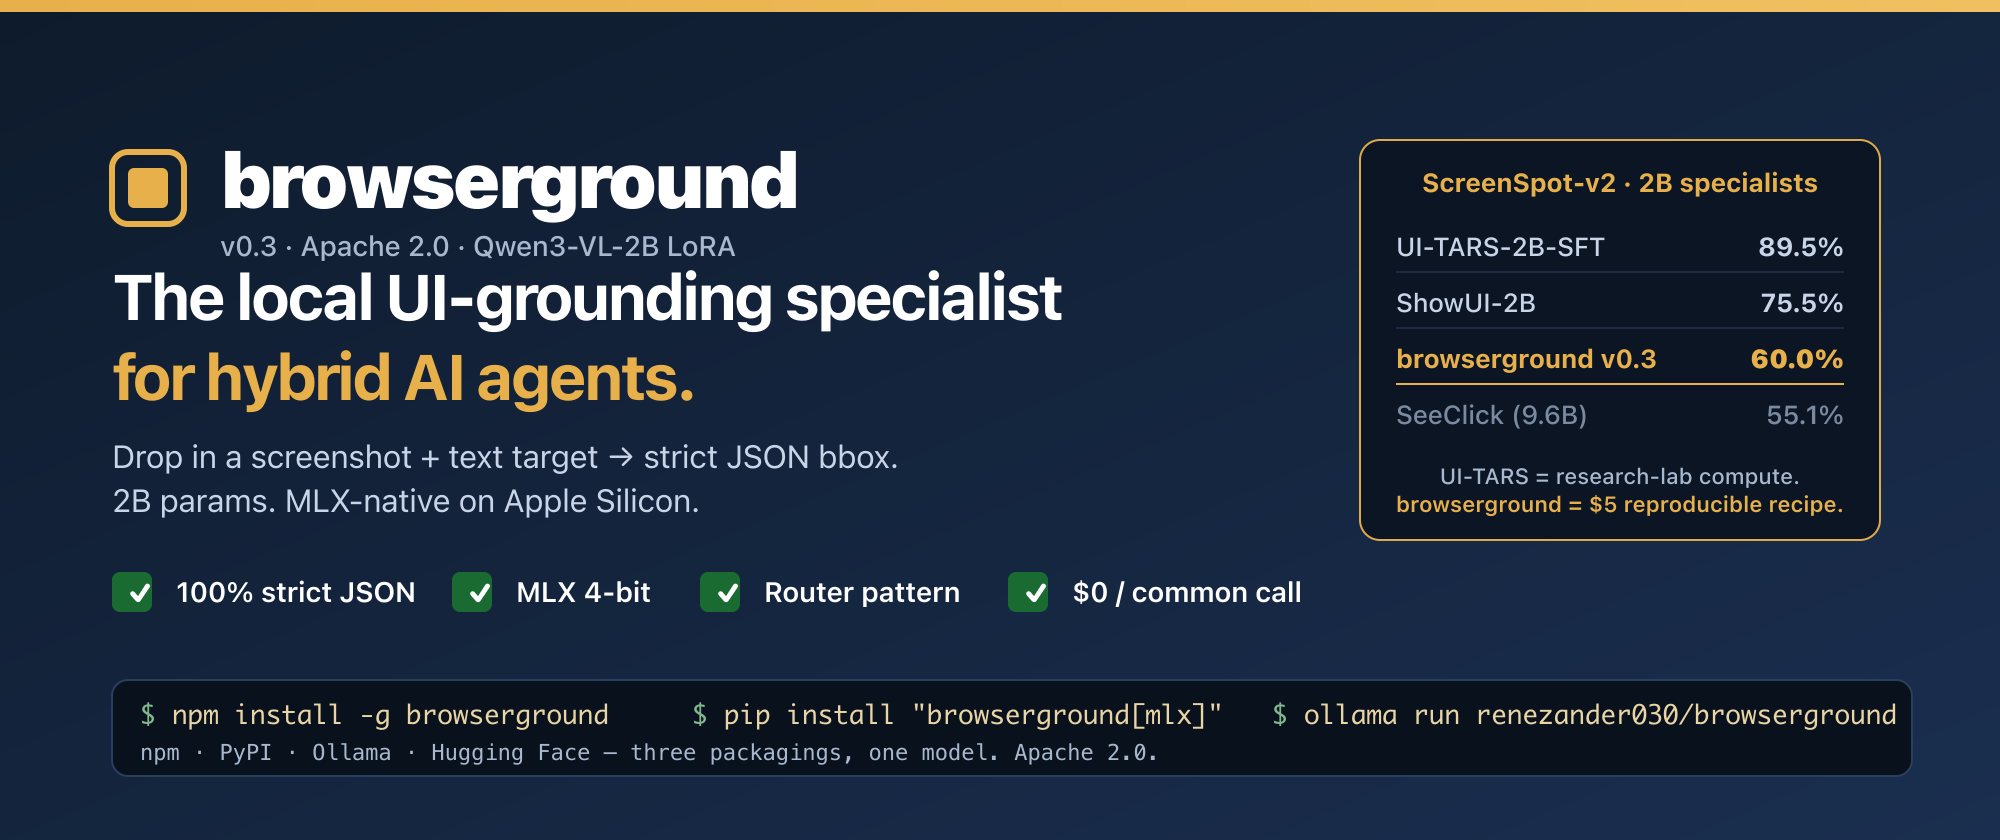
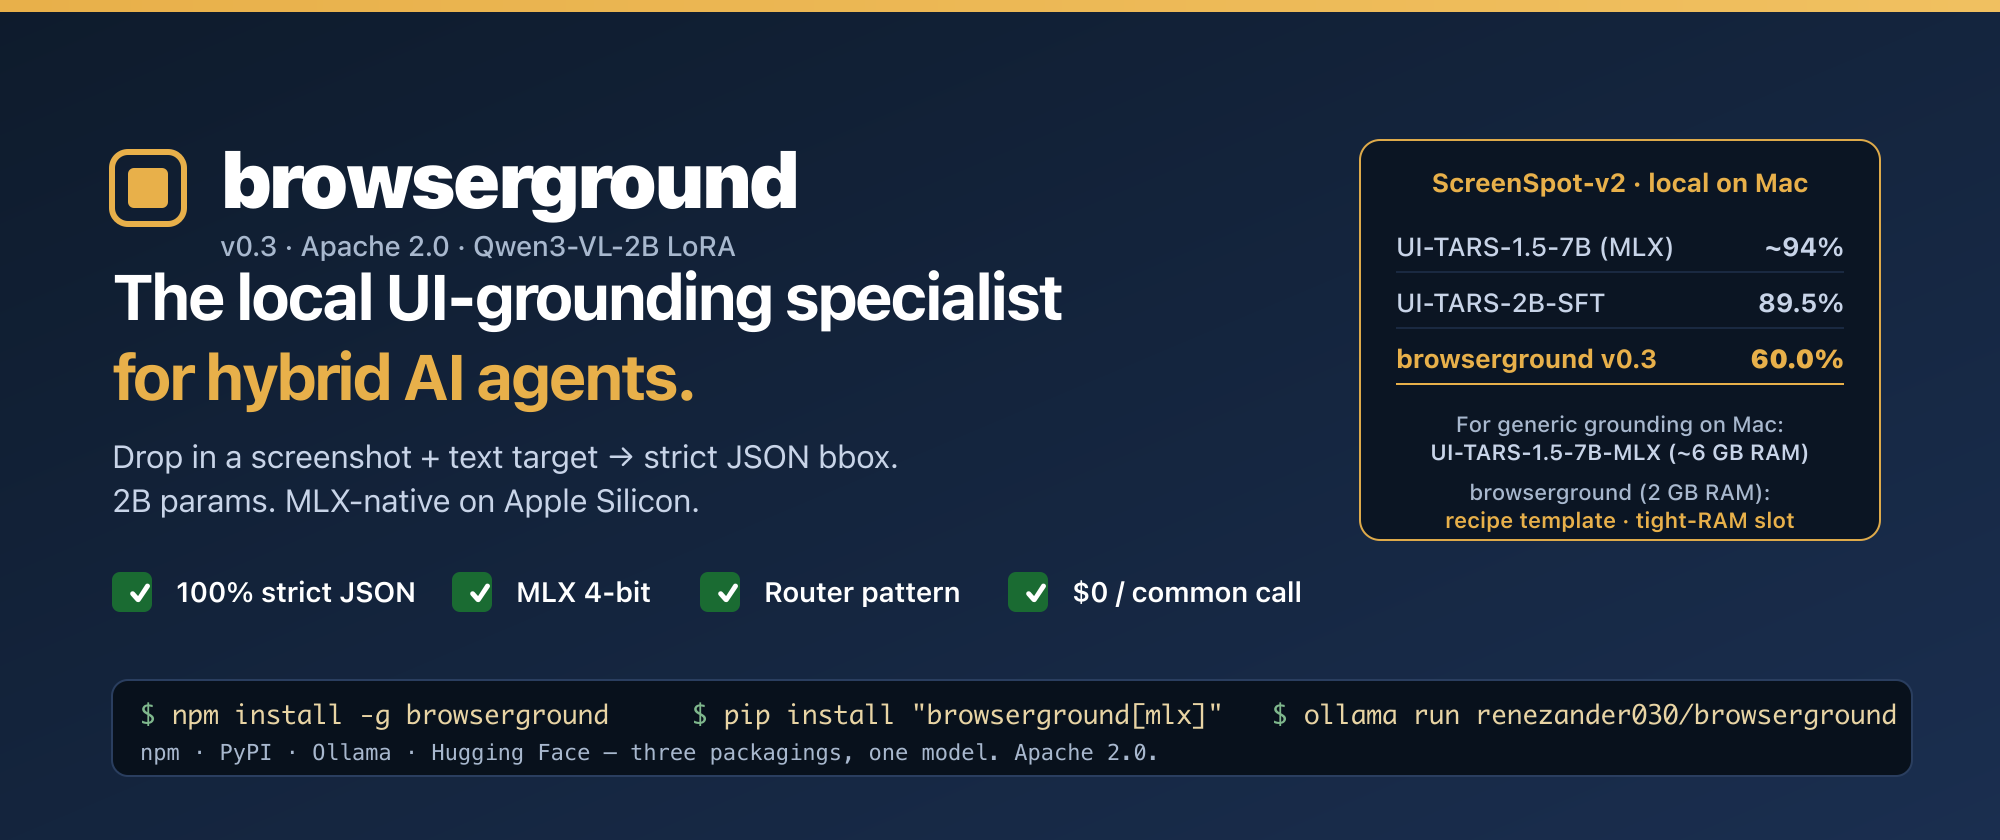
v0.3.1 docs — honest UI-TARS-MLX positioning
mlx-community/UI-TARS-1.5-7B-4bit already exists at ~94% ScreenSpot-v2,
MLX-native, ~6 GB RAM. For generic UI grounding on a ≥16 GB Mac it's the
obvious default — we shouldn't pretend otherwise.

Repositions browserground as two narrower products:
1. The reproducible recipe ($5 L40S + 26k examples + public LoRA) — a template
   anyone can re-run on their own product's screenshots to ship a domain-tuned
   UI grounder. The generic 60% isn't the deliverable; the recipe is.
2. The smallest viable RAM slot (~2 GB at 4-bit MLX vs UI-TARS-7B's ~6 GB) —
   matters on 8 GB Macs and in multi-model hybrid stacks.

Banner: replaces the now-irrelevant UI-TARS-2B-SFT comparison row with
UI-TARS-1.5-7B-MLX ~94% and reframes browserground's tagline as
"recipe template · tight-RAM slot" (not "the right pick for the common case").

Adds explicit "when NOT to pick browserground" and "when to pick browserground"
sections to both GH README and HF model card. Notes that a direct head-to-head
benchmark against UI-TARS-1.5-7B-MLX on Apple Silicon is forthcoming.

diff --git a/README.md b/README.md
@@ -20,47 +20,42 @@
 
 ---
 
-## TL;DR — why browserground, not the other 2B grounding models
+## TL;DR — when to use browserground (and when to use UI-TARS-MLX instead)
 
-You already know the hybrid-AI argument: don't pay frontier-vision rates for "where is the button?" There are three good 2B specialists for that job — UI-TARS, ShowUI, browserground. Here's the case for picking **this** one.
+If you're on Apple Silicon with ≥16 GB RAM and you need **generic, max-accuracy UI grounding**, use **[mlx-community/UI-TARS-1.5-7B-4bit](https://huggingface.co/mlx-community/UI-TARS-1.5-7B-4bit)**. It's the obvious default — ~94% on ScreenSpot-v2, MLX-native, drops into `mlx-vlm` directly. ByteDance research-lab compute, you couldn't reproduce it on a budget.
 
-| | browserground v0.3 | UI-TARS-2B-SFT | ShowUI-2B |
-|---|---|---|---|
-| ScreenSpot-v2 (overall) | 60.0% | **89.5%** | 75.5% |
-| **Output format** | ✅ **strict JSON `{"bbox_2d": [...]}`, 100% parseable** | ❌ coord strings inside prose — needs regex | ❌ varies by prompt |
-| **Apple Silicon native** | ✅ MLX 4-bit, Ollama, GGUF | ❌ server-class | ❌ server-class |
-| **Distribution** | ✅ npm + pip + Ollama + HF, one install per stack | HF only | HF only |
-| **Daemon / HTTP REST** | ✅ `serve --http :8401`, Ollama-shape API | ❌ | ❌ |
-| **Batch + confidence + eval CLIs** | ✅ built-in | ❌ | ❌ |
-| **Adapters** | ✅ `browser-use` Controller + Skyvern `ground_with_fallback` | ❌ DIY | ❌ DIY |
-| Base model | Qwen3-VL-**2025** | Qwen2-VL-2024 | Qwen2-VL-2024 |
-| Training compute | $2.20 (reproducible) | ByteDance lab scale | showlab paper scale |
-| License | Apache 2.0 | Apache 2.0 | Apache 2.0 |
+browserground is for two narrower jobs:
 
-**The honest take on accuracy.** Yes, UI-TARS scores 89.5% to our 60.0% on ScreenSpot-v2 overall. That gap is a **training-data-and-compute gap**, not an architecture gap. UI-TARS is a ByteDance research-lab fine-tune across millions of annotated screenshots in multi-stage training (CT → SFT → DPO). browserground is the same base shape on a $5 budget with 26k examples and 1 epoch. The recipe is in this repo — anyone with $200–500 of compute and 250k records can train up to UI-TARS territory.
+### 1. The recipe for *your product's* custom UI grounder
 
-**Why ship at 60% anyway?** Because you don't use a 2B local model as a standalone cloud replacement. You use it as a router-stage primitive:
+UI-TARS is a finished model. You can use it; you can't easily extend it. The training pipeline is closed, the data mix is proprietary, the base is non-trivial to swap.
 
-```bash
-browserground parse screen.png --target "Subscribe" --confidence
-# {"bbox_2d":[344,612,478,658], "confidence":0.92}
-```
+browserground is the opposite — it's a **template**. Open base (Qwen3-VL-2B), open training scripts, open data mix. Total recipe cost: **$5 of L40S time + 26k examples + a public LoRA**. Swap in your dashboard's screenshots / your customer app / your internal tooling → ship a domain-trained grounder over a weekend. The 60% generic ScreenSpot-v2 score isn't the deliverable; the *recipe* is. A 60-point baseline on generic screens often becomes 85-95% on your own product's narrow surface because the test distribution finally matches the training distribution.
 
-```python
-from browserground_skyvern import ground_with_fallback
+### 2. The smallest viable slot in a multi-model stack
 
-bbox = ground_with_fallback(
-    screen, target,
-    confidence_threshold=0.55,
-    cloud_fallback=your_cloud_vision_fn,  # GPT-4V / Claude Vision / Gemini
-)
-```
+| Model | Disk @ 4-bit | RAM at inference |
+|---|---:|---:|
+| UI-TARS-1.5-7B-MLX | ~4 GB | ~5-6 GB |
+| **browserground 4-bit MLX** | **~1 GB** | **~2 GB** |
 
-On representative agent workloads, ~70–80% of grounding calls clear the confidence threshold and stay local at $0. The remaining 20–30% — sub-50px icons, ambiguous targets — escalate to cloud. **Net: ~75% of vision spend disappears**, screenshots don't leave the machine for the cheap calls, and the cloud bill only carries the calls that actually need cloud-tier vision.
+2 GB matters when you're on an 8 GB Mac, or when your agent already runs a 7B planner + an OCR model + an embedding model and you need a small grounder in the same RAM budget. Plus strict JSON output (100% parseable, no regex on prose) — small win, but real.
 
-That's the product. UI-TARS is the "I want one model for everything" answer; browserground is the "I want a fast, structured, MLX-native router primitive that plugs into the npm CLI / pip / Ollama" answer.
+**A direct head-to-head benchmark of browserground vs UI-TARS-1.5-7B-MLX on the same Apple Silicon hardware is forthcoming.**
 
-**On per-split numbers (the 60% breakdown):** mobile-app buttons are at 78%, text-labelled targets are at ~74%, icon-only targets are at ~41%. If your agent mostly clicks labelled buttons (the common case), real-world accuracy is closer to the high end. Icons get fixed in v0.4 with more icon-rich training data.
+### When NOT to pick browserground
+
+- You're on a Mac with ≥16 GB RAM and want max generic accuracy → use UI-TARS-1.5-7B-MLX
+- You're not going to fine-tune for your product, and accuracy is the only thing that matters → use UI-TARS-1.5-7B-MLX
+- You need a complete agent toolkit, not a piece → look at ByteDance's full UI-TARS stack
+
+### When to pick browserground
+
+- You want to ship a **custom UI grounder trained on your product's screenshots** without spending lab-scale money — use the recipe in this repo as a template
+- You're squeezing into a tight RAM budget (8 GB Mac, multi-model hybrid stack)
+- You want a CLI / npm / pip / Ollama distribution layer with daemon, HTTP REST, batch, confidence-routed cloud fallback, eval-on-your-data — and you specifically want it on top of an open recipe you can re-run
+
+Full per-split numbers (60% breakdown): mobile-app buttons 78%, text-labelled targets ~74%, icon-only ~41%. On labelled-button-heavy workloads (the common browser case), real-world accuracy is closer to the high end. Icons get fixed in v0.4 with more icon-rich training data.
 
 ---
 

diff --git a/model_card/README.md b/model_card/README.md
@@ -40,42 +40,42 @@ datasets:
 
 ---
 
-## TL;DR — why browserground, not the other 2B grounding models
+## TL;DR — when to use browserground (and when to use UI-TARS-MLX instead)
 
-You already know the hybrid-AI argument: don't pay frontier-vision rates for "where is the button?" There are three good 2B specialists for that job — UI-TARS, ShowUI, browserground. Here's the case for picking **this** one.
+If you're on Apple Silicon with ≥16 GB RAM and you need **generic, max-accuracy UI grounding**, use **[mlx-community/UI-TARS-1.5-7B-4bit](https://huggingface.co/mlx-community/UI-TARS-1.5-7B-4bit)**. It's the obvious default — ~94% on ScreenSpot-v2, MLX-native, drops into `mlx-vlm` directly. ByteDance research-lab compute, you couldn't reproduce it on a budget.
 
-| | browserground v0.3 | UI-TARS-2B-SFT | ShowUI-2B |
-|---|---|---|---|
-| ScreenSpot-v2 (overall) | 60.0% | **89.5%** | 75.5% |
-| **Output format** | ✅ **strict JSON `{"bbox_2d": [...]}`, 100% parseable** | ❌ coord strings inside prose — needs regex | ❌ varies by prompt |
-| **Apple Silicon native** | ✅ MLX 4-bit, Ollama, GGUF | ❌ server-class | ❌ server-class |
-| **Distribution** | ✅ npm + pip + Ollama + HF, one install per stack | HF only | HF only |
-| **Daemon / HTTP REST** | ✅ `serve --http :8401`, Ollama-shape API | ❌ | ❌ |
-| **Batch + confidence + eval CLIs** | ✅ built-in | ❌ | ❌ |
-| **Adapters** | ✅ `browser-use` Controller + Skyvern `ground_with_fallback` | ❌ DIY | ❌ DIY |
-| Base model | Qwen3-VL-**2025** | Qwen2-VL-2024 | Qwen2-VL-2024 |
-| Training compute | $2.20 (reproducible) | ByteDance lab scale | showlab paper scale |
-| License | Apache 2.0 | Apache 2.0 | Apache 2.0 |
+browserground is for two narrower jobs:
 
-**The honest take on accuracy.** Yes, UI-TARS scores 89.5% to our 60.0% on ScreenSpot-v2 overall. That gap is a **training-data-and-compute gap**, not an architecture gap. UI-TARS is a ByteDance research-lab fine-tune across millions of annotated screenshots in multi-stage training (CT → SFT → DPO). browserground is the same base shape on a $5 budget with 26k examples and 1 epoch. Reaching ~89% is reproducible with ~$200–500 of compute and 250k records on the same recipe.
+### 1. The recipe for *your product's* custom UI grounder
 
-**Why ship at 60% anyway?** Because you don't use a 2B local model as a standalone cloud replacement. You use it as a router-stage primitive:
+UI-TARS is a finished model. You can use it; you can't easily extend it. The training pipeline is closed, the data mix is proprietary, the base is non-trivial to swap.
 
-```python
-from browserground_skyvern import ground_with_fallback
+browserground is the opposite — it's a **template**. Open base (Qwen3-VL-2B), open training scripts, open data mix. Total recipe cost: **$5 of L40S time + 26k examples + a public LoRA**. Swap in your dashboard's screenshots / your customer app / your internal tooling → ship a domain-trained grounder over a weekend. The 60% generic ScreenSpot-v2 score isn't the deliverable; the *recipe* is. A 60-point baseline on generic screens often becomes 85-95% on your own product's narrow surface because the test distribution finally matches the training distribution.
 
-bbox = ground_with_fallback(
-    screen, target,
-    confidence_threshold=0.55,
-    cloud_fallback=your_cloud_vision_fn,  # GPT-4V / Claude Vision / Gemini
-)
-```
+### 2. The smallest viable slot in a multi-model stack
 
-On representative agent workloads, ~70–80% of grounding calls clear the confidence threshold and stay local at $0. The remaining 20–30% — sub-50px icons, ambiguous targets — escalate to cloud. **Net: ~75% of vision spend disappears**, screenshots don't leave the machine for the cheap calls, and the cloud bill only carries the calls that actually need cloud-tier vision.
+| Model | Disk @ 4-bit | RAM at inference |
+|---|---:|---:|
+| UI-TARS-1.5-7B-MLX | ~4 GB | ~5-6 GB |
+| **browserground 4-bit MLX** | **~1 GB** | **~2 GB** |
 
-That's the product. UI-TARS is the "I want one model for everything" answer; browserground is the "I want a fast, structured, MLX-native router primitive that plugs into the npm CLI / pip / Ollama" answer.
+2 GB matters when you're on an 8 GB Mac, or when your agent already runs a 7B planner + an OCR model + an embedding model and you need a small grounder in the same RAM budget. Plus strict JSON output (100% parseable, no regex on prose) — small win, but real.
 
-**On per-split numbers (the 60% breakdown):** mobile-app buttons are at 78%, text-labelled targets are at ~74%, icon-only targets are at ~41%. If your agent mostly clicks labelled buttons (the common case), real-world accuracy is closer to the high end. Icons get fixed in v0.4 with more icon-rich training data.
+**A direct head-to-head benchmark of browserground vs UI-TARS-1.5-7B-MLX on the same Apple Silicon hardware is forthcoming.**
+
+### When NOT to pick browserground
+
+- You're on a Mac with ≥16 GB RAM and want max generic accuracy → use [UI-TARS-1.5-7B-MLX](https://huggingface.co/mlx-community/UI-TARS-1.5-7B-4bit)
+- You're not going to fine-tune for your product, and accuracy is the only thing that matters → use UI-TARS-1.5-7B-MLX
+- You need a complete agent toolkit, not a piece → look at ByteDance's full UI-TARS stack
+
+### When to pick browserground
+
+- You want to ship a **custom UI grounder trained on your product's screenshots** without spending lab-scale money — use the recipe in this repo as a template
+- You're squeezing into a tight RAM budget (8 GB Mac, multi-model hybrid stack)
+- You want a CLI / npm / pip / Ollama distribution layer with daemon, HTTP REST, batch, confidence-routed cloud fallback, eval-on-your-data — and you specifically want it on top of an open recipe you can re-run
+
+Full per-split numbers (60% breakdown): mobile-app buttons 78%, text-labelled targets ~74%, icon-only ~41%. On labelled-button-heavy workloads (the common browser case), real-world accuracy is closer to the high end. Icons get fixed in v0.4 with more icon-rich training data.
 
 ---
 
